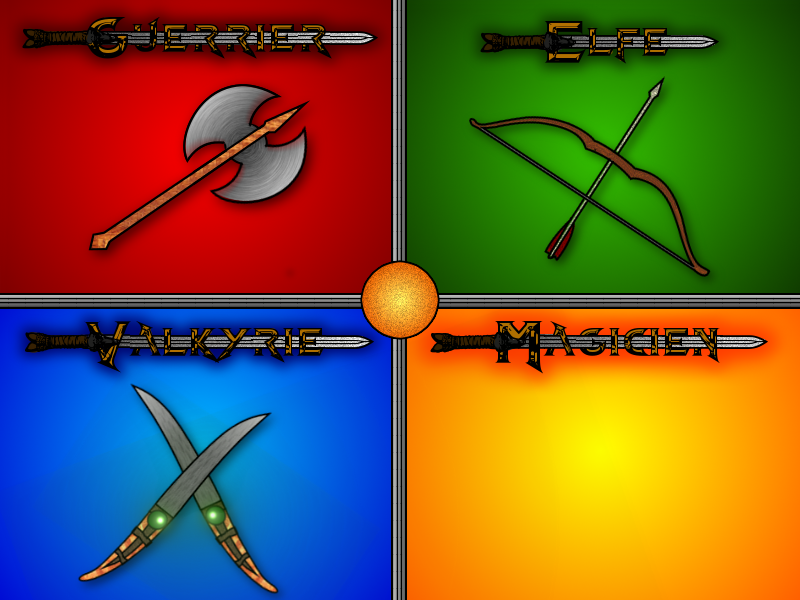
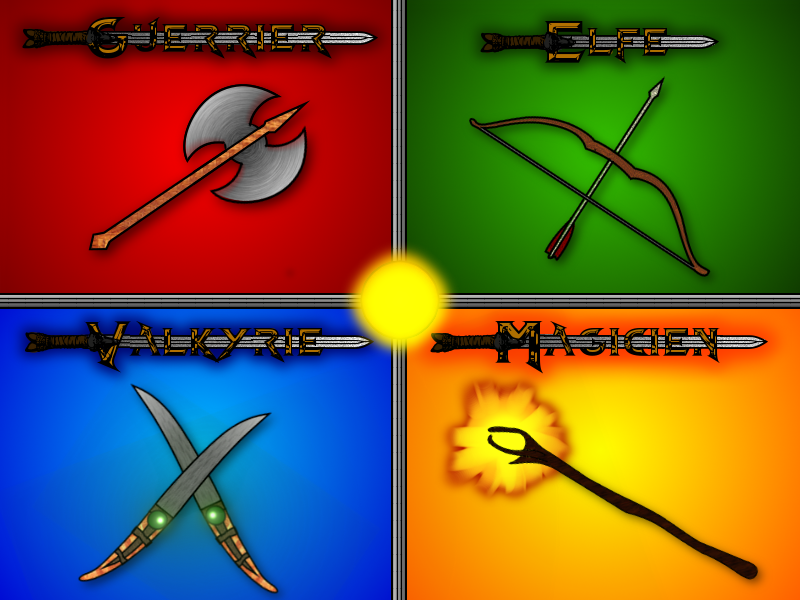
Mise à jour de Niveau, affichage des objets OK

Changed region(s): [[0.5312, 0.63, 0.9688, 0.99], [0.4062, 0.39, 0.5938, 0.6]]

diff --git a/src/fr/dungeontrouble/partie/niveau/Objet.java b/src/fr/dungeontrouble/partie/niveau/Objet.java
@@ -1,5 +1,8 @@
 package fr.dungeontrouble.partie.niveau;
 
+import org.jsfml.graphics.Drawable;
+import org.jsfml.graphics.RenderStates;
+import org.jsfml.graphics.RenderTarget;
 import org.jsfml.graphics.Sprite;
 import org.jsfml.graphics.Texture;
 import org.jsfml.system.Vector2f;
@@ -10,7 +13,7 @@ import org.jsfml.system.Vector2f;
  * @author Maxime BELLIER
  * 
  */
-public abstract class Objet {
+public abstract class Objet implements Drawable{
 
 	protected Sprite sprite;
 	protected static Texture texture;
@@ -39,4 +42,9 @@ public abstract class Objet {
 	public static void setTexture(Texture texture) {
 		Objet.texture = texture;
 	}
+	
+	@Override
+	public void draw(RenderTarget target, RenderStates states) {
+		target.draw(this.sprite);
+	}	
 }
